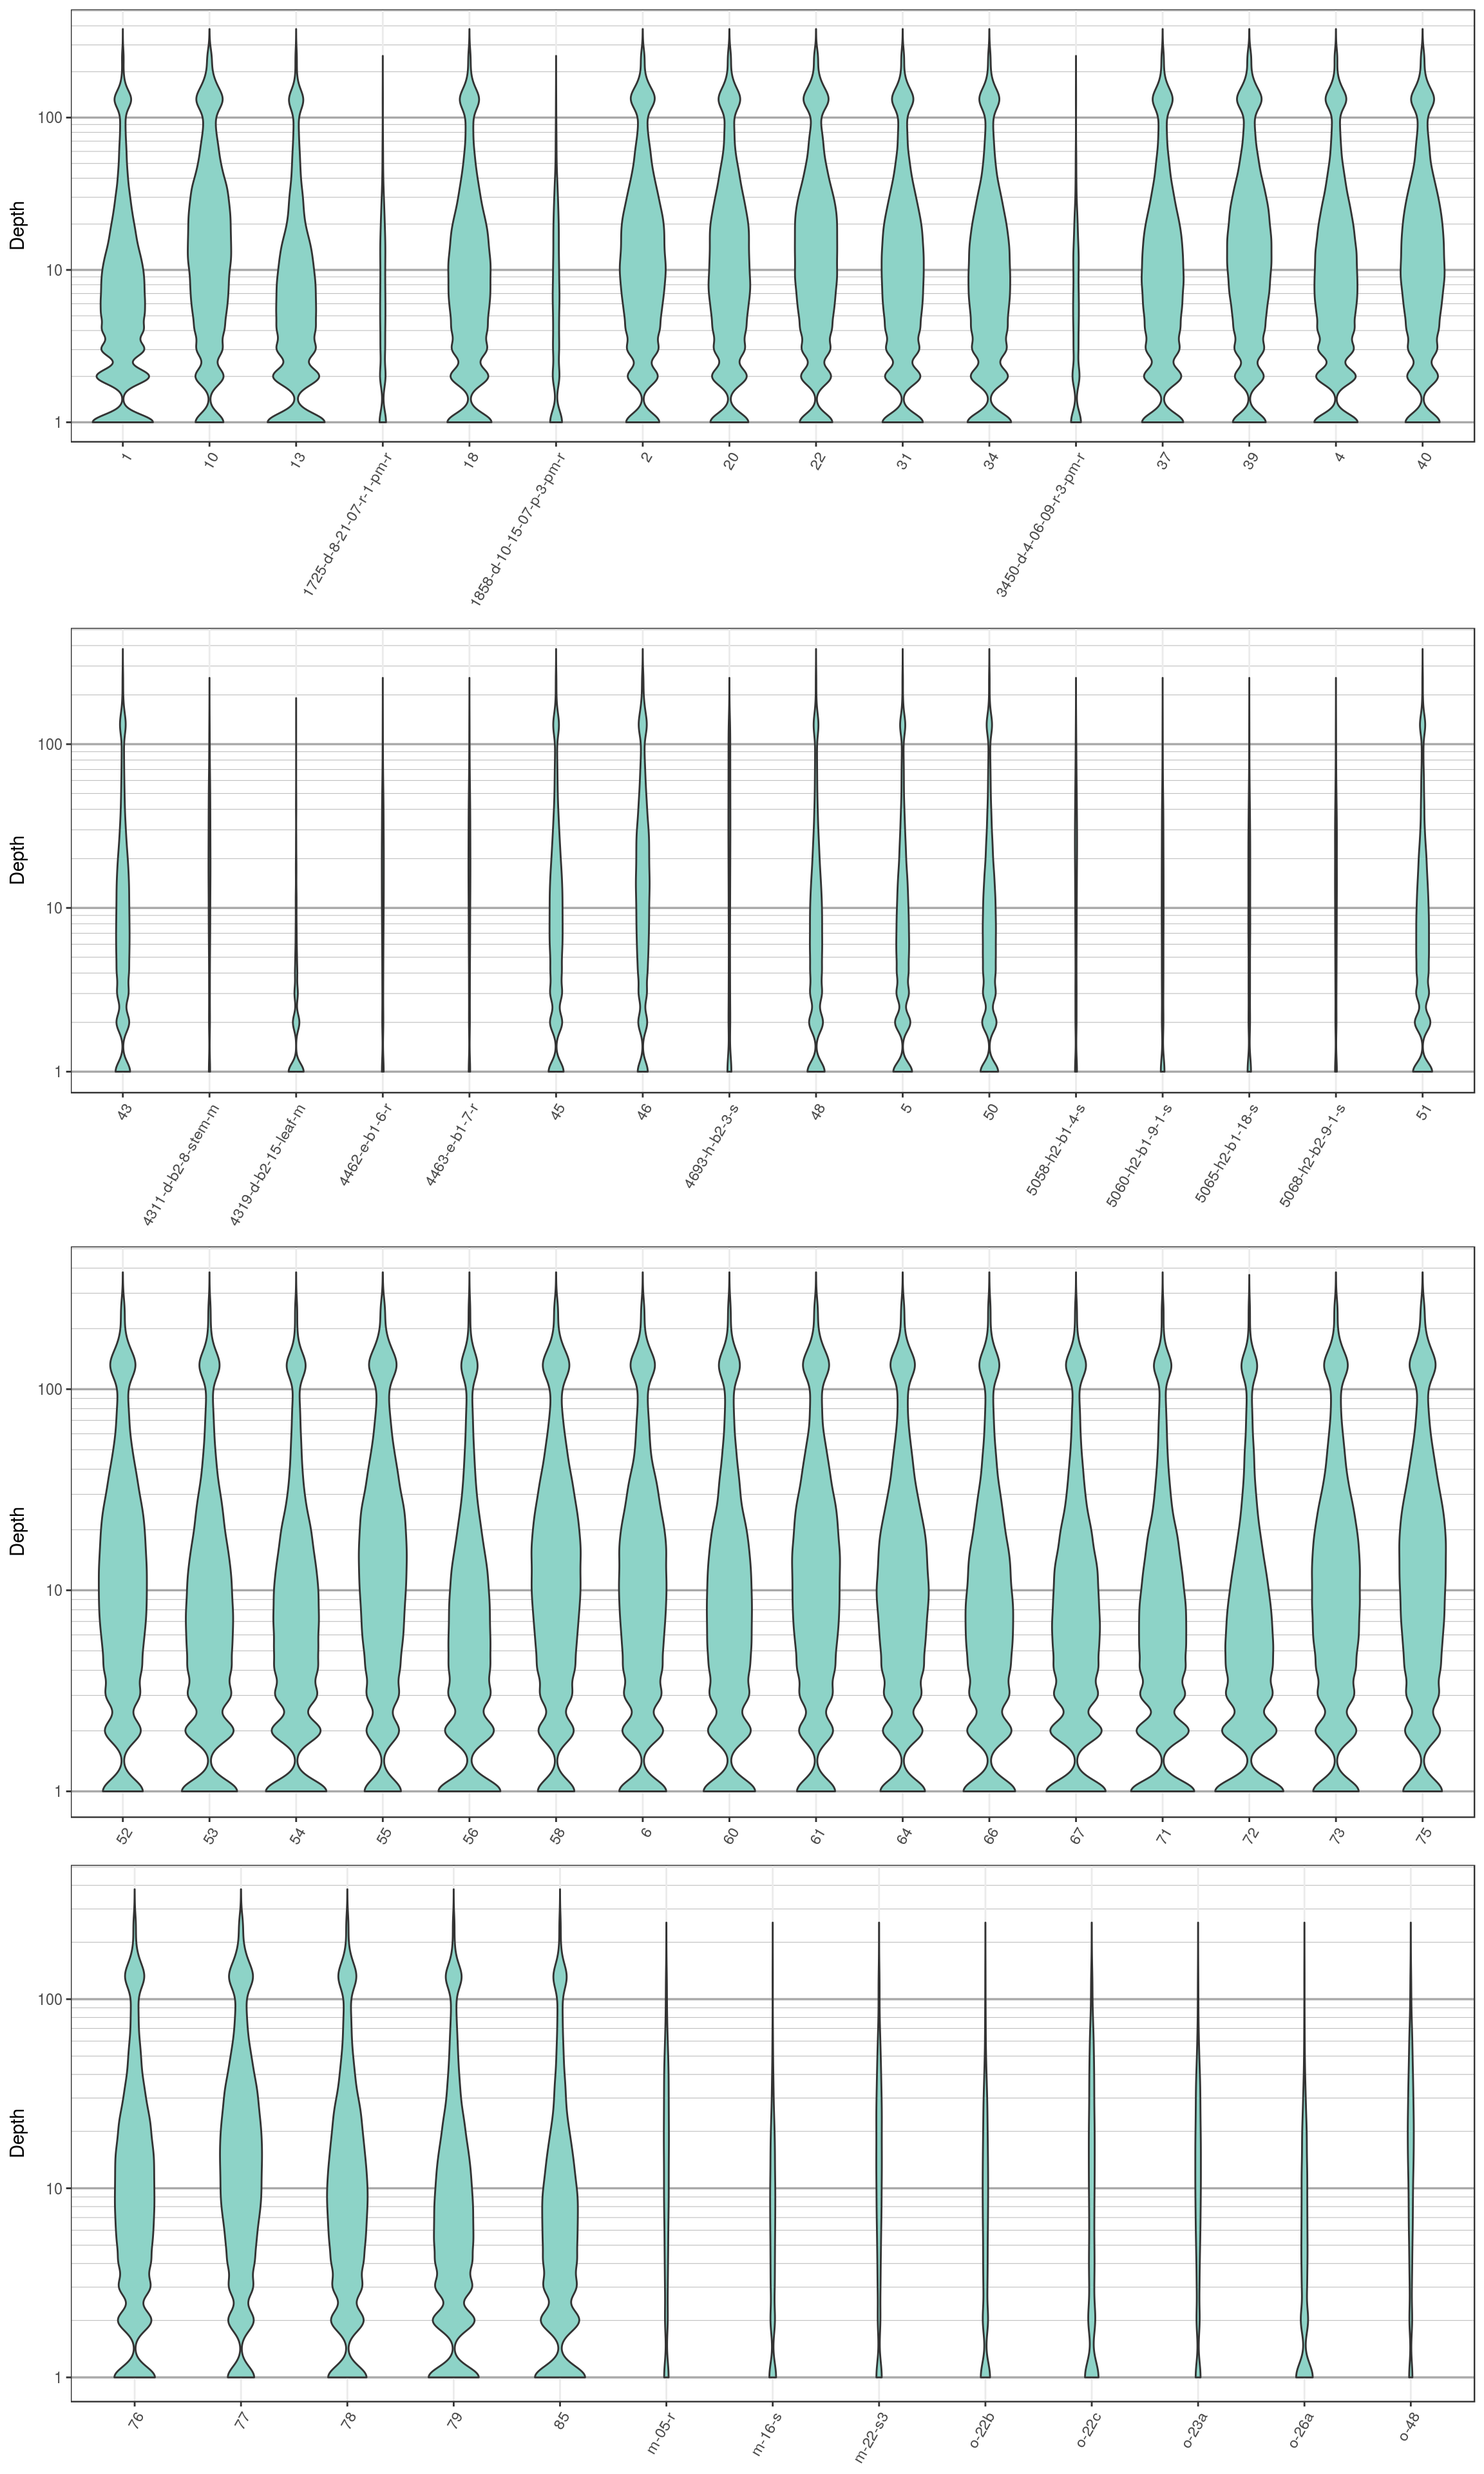
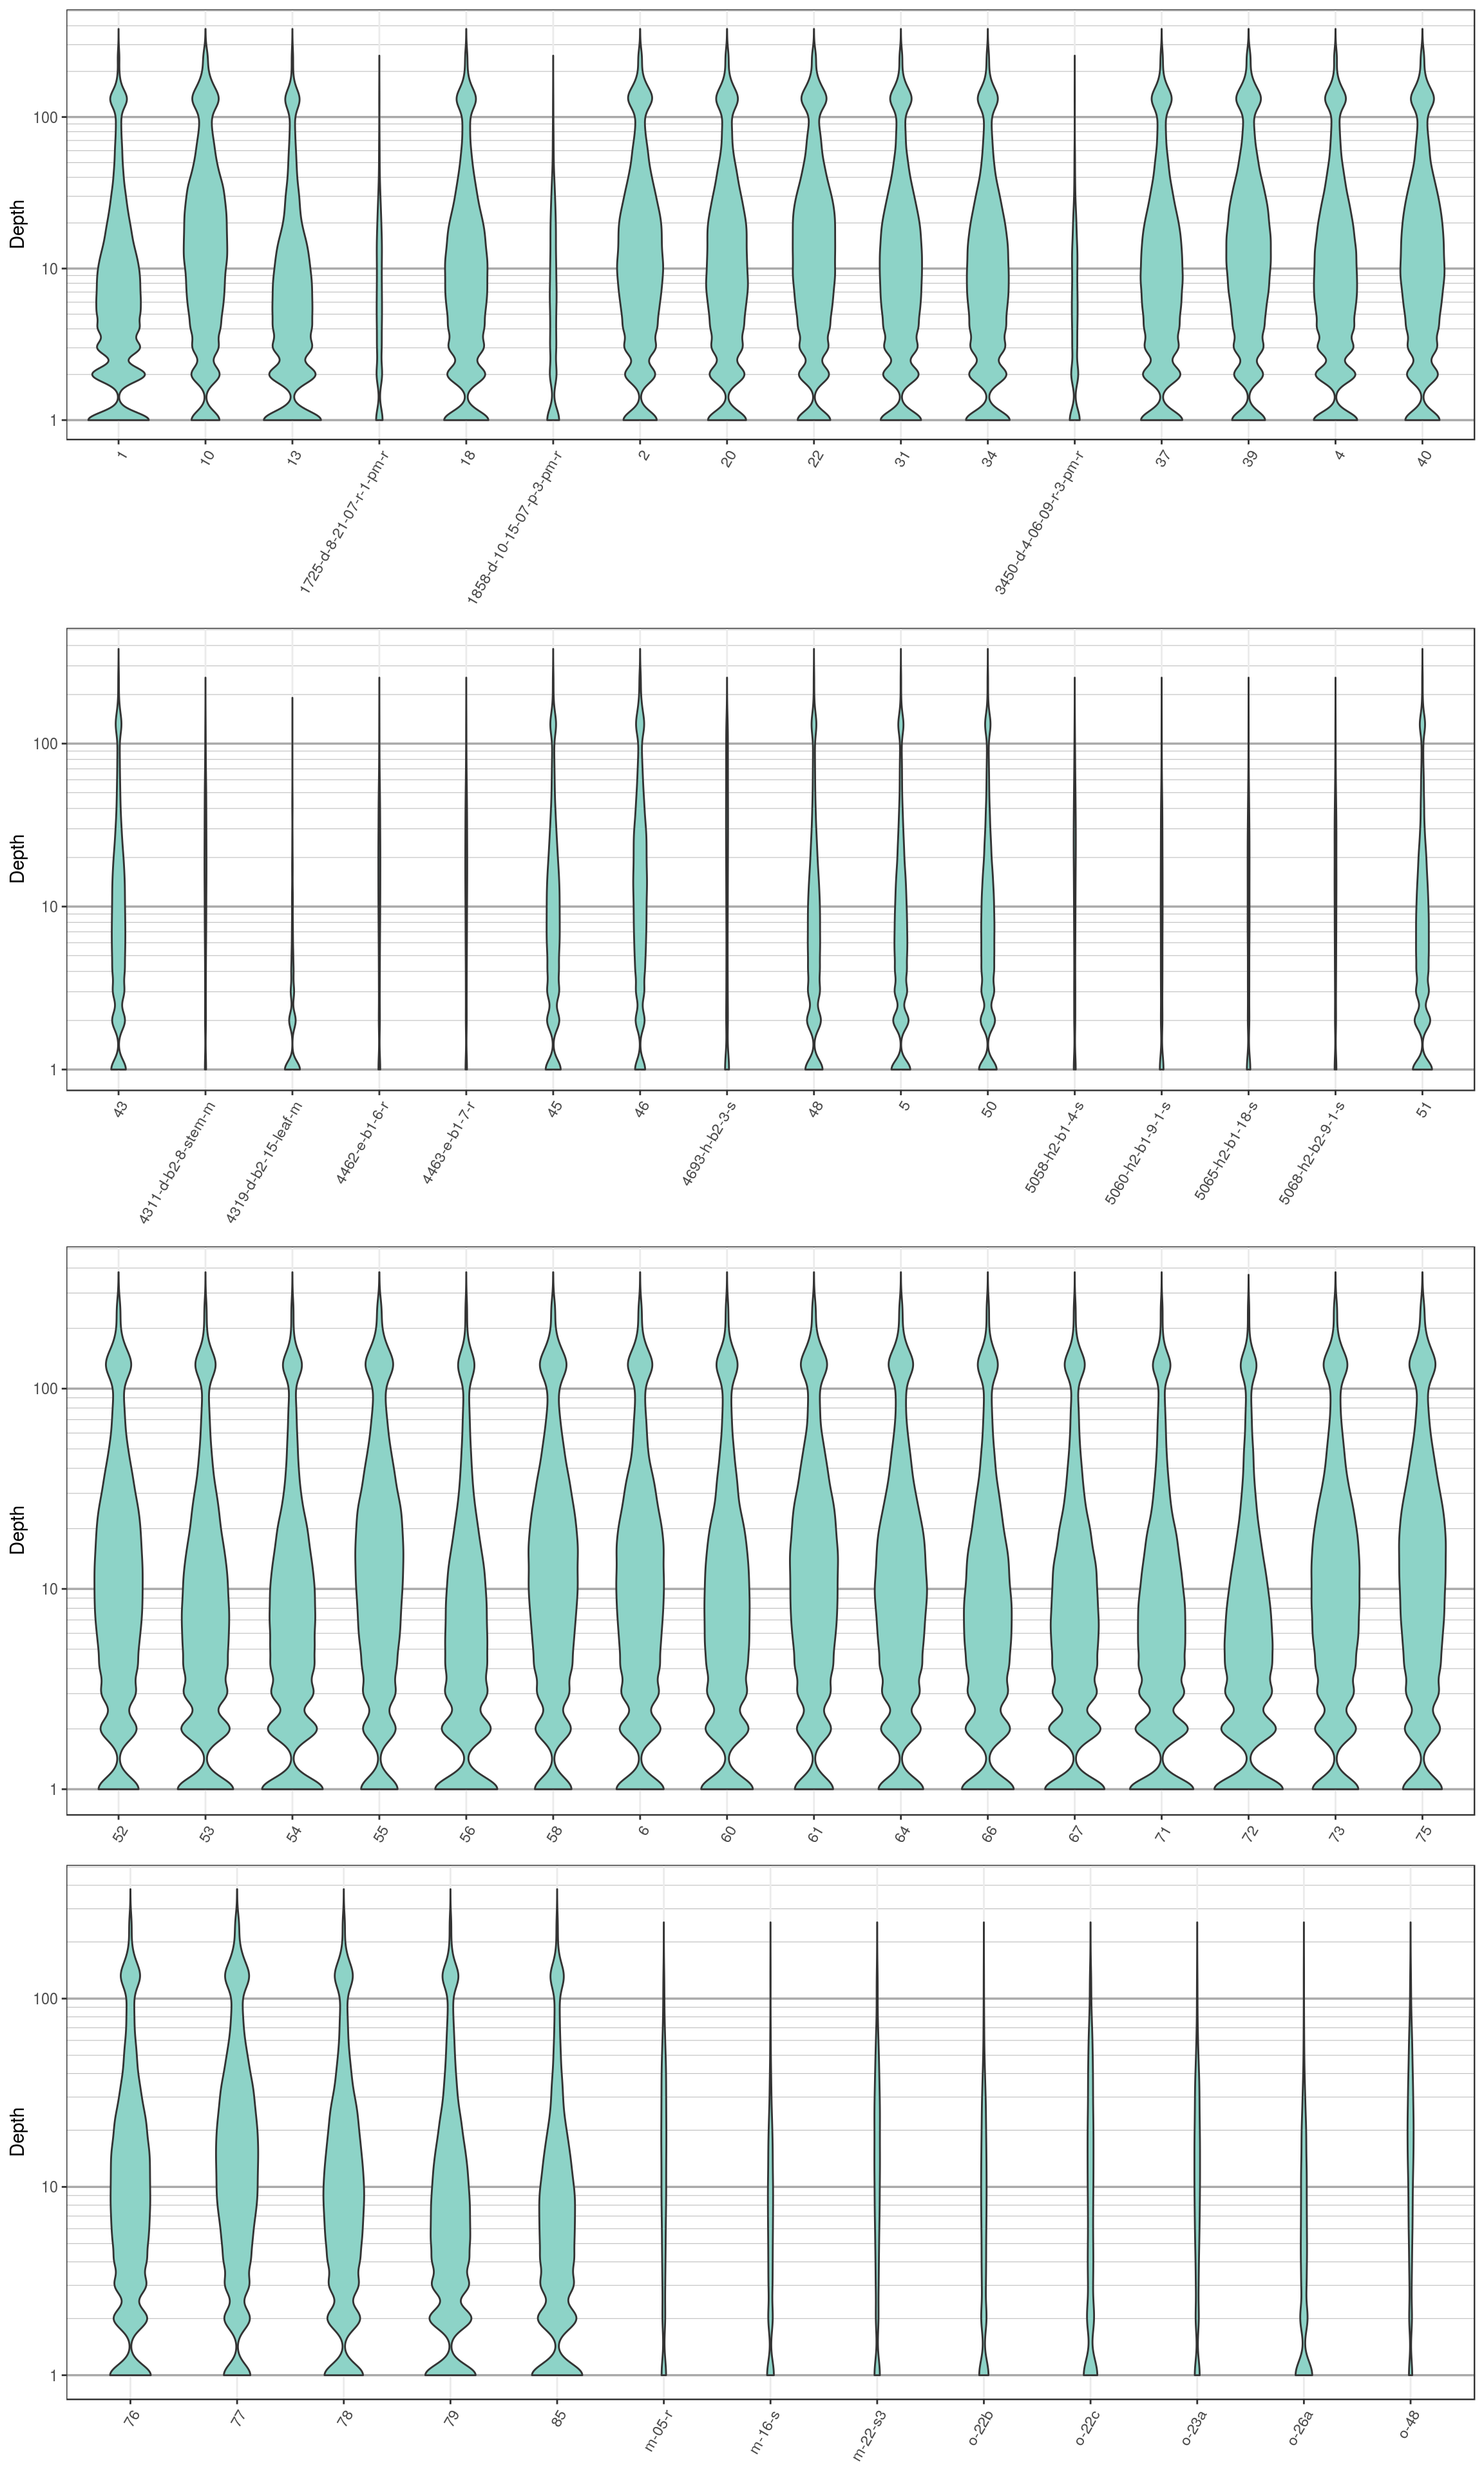
added font size and median diamonds to sequence_coverage

diff --git a/sequence_coverage.html b/sequence_coverage.html
@@ -111,6 +111,9 @@ img {
 .tabbed-pane {
   padding-top: 12px;
 }
+.html-widget {
+  margin-bottom: 20px;
+}
 button.code-folding-btn:focus {
   outline: none;
 }
@@ -383,8 +386,14 @@ Brian J. Knaus and Niklaus J. Gr&uuml;nwald
 <div id="reading-vcf-data" class="section level2">
 <h2>Reading VCF data</h2>
 <p>The topic of reading in VCF format data is covered in other vignettes. We include it here for redundancy, and because every example involving VCF data needs to start with some data.</p>
-<pre class="r"><code>library(vcfR)
-vcf_file &lt;- system.file(&quot;extdata&quot;, &quot;pinf_sc50.vcf.gz&quot;, package = &quot;pinfsc50&quot;)
+<pre class="r"><code>library(vcfR)</code></pre>
+<pre><code>## 
+##    *****       ***   vcfR   ***       *****
+##    This is vcfR 1.8.0.9000 
+##      browseVignettes(&#39;vcfR&#39;) # Documentation
+##      citation(&#39;vcfR&#39;) # Citation
+##    *****       *****      *****       *****</code></pre>
+<pre class="r"><code>vcf_file &lt;- system.file(&quot;extdata&quot;, &quot;pinf_sc50.vcf.gz&quot;, package = &quot;pinfsc50&quot;)
 vcf &lt;- read.vcfR(vcf_file, verbose = FALSE)</code></pre>
 <p>Calling the object by name, with no options (the show method), provides a summary of the data.</p>
 <pre class="r"><code>vcf</code></pre>
@@ -392,7 +401,7 @@ vcf &lt;- read.vcfR(vcf_file, verbose = FALSE)</code></pre>
 ## 18 samples
 ## 1 CHROMs
 ## 22,031 variants
-## Object size: 20.9 Mb
+## Object size: 22.4 Mb
 ## 7.929 percent missing data
 ## *****        *****         *****</code></pre>
 </div>
@@ -485,19 +494,23 @@ abline(h=seq(0,1e4, by=100), col=&quot;#C0C0C088&quot;)</code></pre>
                                                          scale = &quot;count&quot;, trim=TRUE)
   p &lt;- p + theme_bw()
   p &lt;- p + theme(axis.title.x = element_blank(), 
-                 axis.text.x = element_text(angle = 60, hjust = 1))
+                 axis.text.x = element_text(angle = 60, hjust = 1, size=12))
 #  p &lt;- p + stat_summary(fun.data=mean_sdl, mult=1, geom=&quot;pointrange&quot;, color=&quot;black&quot;)
   p &lt;- p + scale_y_continuous(trans=scales::log2_trans(), 
                               breaks=c(1, 10, 100, 800),
                               minor_breaks=c(1:10, 2:10*10, 2:8*100))
+  p &lt;- p + theme(axis.title.y = element_text(size=12))
   p &lt;- p + theme( panel.grid.major.y=element_line(color = &quot;#A9A9A9&quot;, size=0.6) )
   p &lt;- p + theme( panel.grid.minor.y=element_line(color = &quot;#C0C0C0&quot;, size=0.2) )
+  p &lt;- p + stat_summary(fun.y=median, geom=&quot;point&quot;, shape=23, size=2)
   p
 } else {
   message(&quot;The packages reshape2 and ggplot2 are required for this example but do not appear
           to be installed.  Please use install.packages(c(&#39;reshape2&#39;, &#39;ggplot2&#39;, &#39;scales&#39;)) if you would
           like to install them.&quot;)
 }</code></pre>
+<pre><code>## Loading required package: reshape2</code></pre>
+<pre><code>## Loading required package: ggplot2</code></pre>
 <p><img src="sequence_coverage_files/figure-html/unnamed-chunk-7-1.png" width="672" style="display: block; margin: auto;" /></p>
 <p>The violin plot presents the distribution of the data throughout its range. They also provide an easy way to apply a logarithmic transformation (here base 2) that effectively compresses large values and stretches out small values. Here we observe a large density of per variant sequence depths that are greater than ten (for the most part). This may be interpreted as having attained sufficient sequence depth for a diploid organism.</p>
 </div>
@@ -522,7 +535,7 @@ abline(h=seq(0,200, by=20), col=&quot;#C0C0C088&quot;)</code></pre>
 ## 18 samples
 ## 1 CHROMs
 ## 22,031 variants
-## Object size: 20.9 Mb
+## Object size: 22.4 Mb
 ## 7.929 percent missing data
 ## *****        *****         *****</code></pre>
 <pre class="r"><code>is.na( vcf@gt[,-1][ is.na(dp) ] ) &lt;- TRUE
@@ -531,7 +544,7 @@ vcf</code></pre>
 ## 18 samples
 ## 1 CHROMs
 ## 22,031 variants
-## Object size: 19.9 Mb
+## Object size: 21.3 Mb
 ## 21.06 percent missing data
 ## *****        *****         *****</code></pre>
 <p>We can see that we’ve increased the amount of missing data in our vcfR object. This validated the success of our manipulation. However, we may want to use this information to further mitigate the data set.</p>

diff --git a/depth_plot.html b/depth_plot.html
@@ -111,6 +111,9 @@ img {
 .tabbed-pane {
   padding-top: 12px;
 }
+.html-widget {
+  margin-bottom: 20px;
+}
 button.code-folding-btn:focus {
   outline: none;
 }
@@ -387,8 +390,14 @@ Brian J. Knaus and Niklaus J. Gr&uuml;nwald
 
 <p>Once a sequencing run is complete the data are typically mapped to a reference genome, variants are called and these variant are stored in a VCF file. At this point one of the first questions asked is how well did the sequencing go? One measure of sequencing quality is sequence depth or how many times each position was sequenced. In VCF data only information on the variable positions are reported. But this can be used as a convenient subset of an entire genome. Many variant callers report this information, but not all. Make sure to check your variant caller documentation if you do not see this information in your file, there is a chance it was an option that was not selected. Here we visualize the depth information from a VCF file to provide a perspective on sequence quality.</p>
 <p>We can extract the depth data (DP) as explained elsewhere. This results in a matrix of depth data. We can take a quick peak at this to remind us what it looks like.</p>
-<pre class="r"><code>library(vcfR)
-vcf &lt;- read.vcfR(&#39;TASSEL_GBS0077.vcf.gz&#39;)
+<pre class="r"><code>library(vcfR)</code></pre>
+<pre><code>## 
+##    *****       ***   vcfR   ***       *****
+##    This is vcfR 1.8.0.9000 
+##      browseVignettes(&#39;vcfR&#39;) # Documentation
+##      citation(&#39;vcfR&#39;) # Citation
+##    *****       *****      *****       *****</code></pre>
+<pre class="r"><code>vcf &lt;- read.vcfR(&#39;TASSEL_GBS0077.vcf.gz&#39;)
 dp &lt;- extract.gt(vcf, element = &quot;DP&quot;, as.numeric=TRUE)</code></pre>
 <pre class="r"><code>dp[1:4,1:6]</code></pre>
 <pre><code>##          1 10 13 1725-d-8-21-07-r-1-pm-r 18 1858-d-10-15-07-p-3-pm-r
